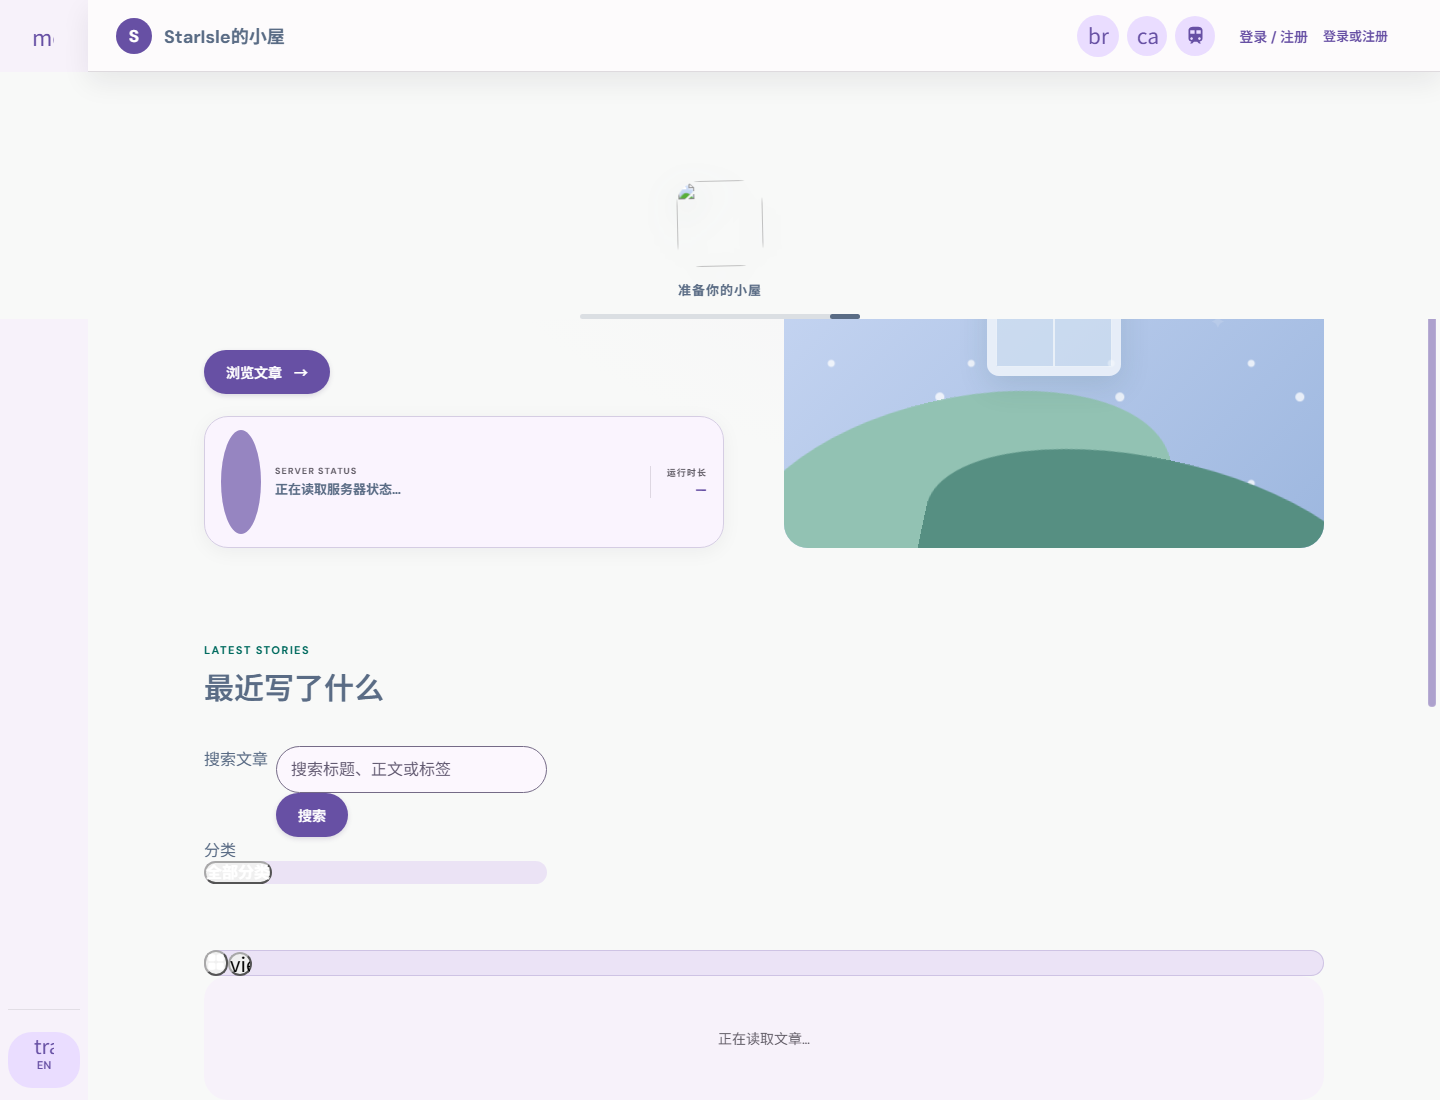
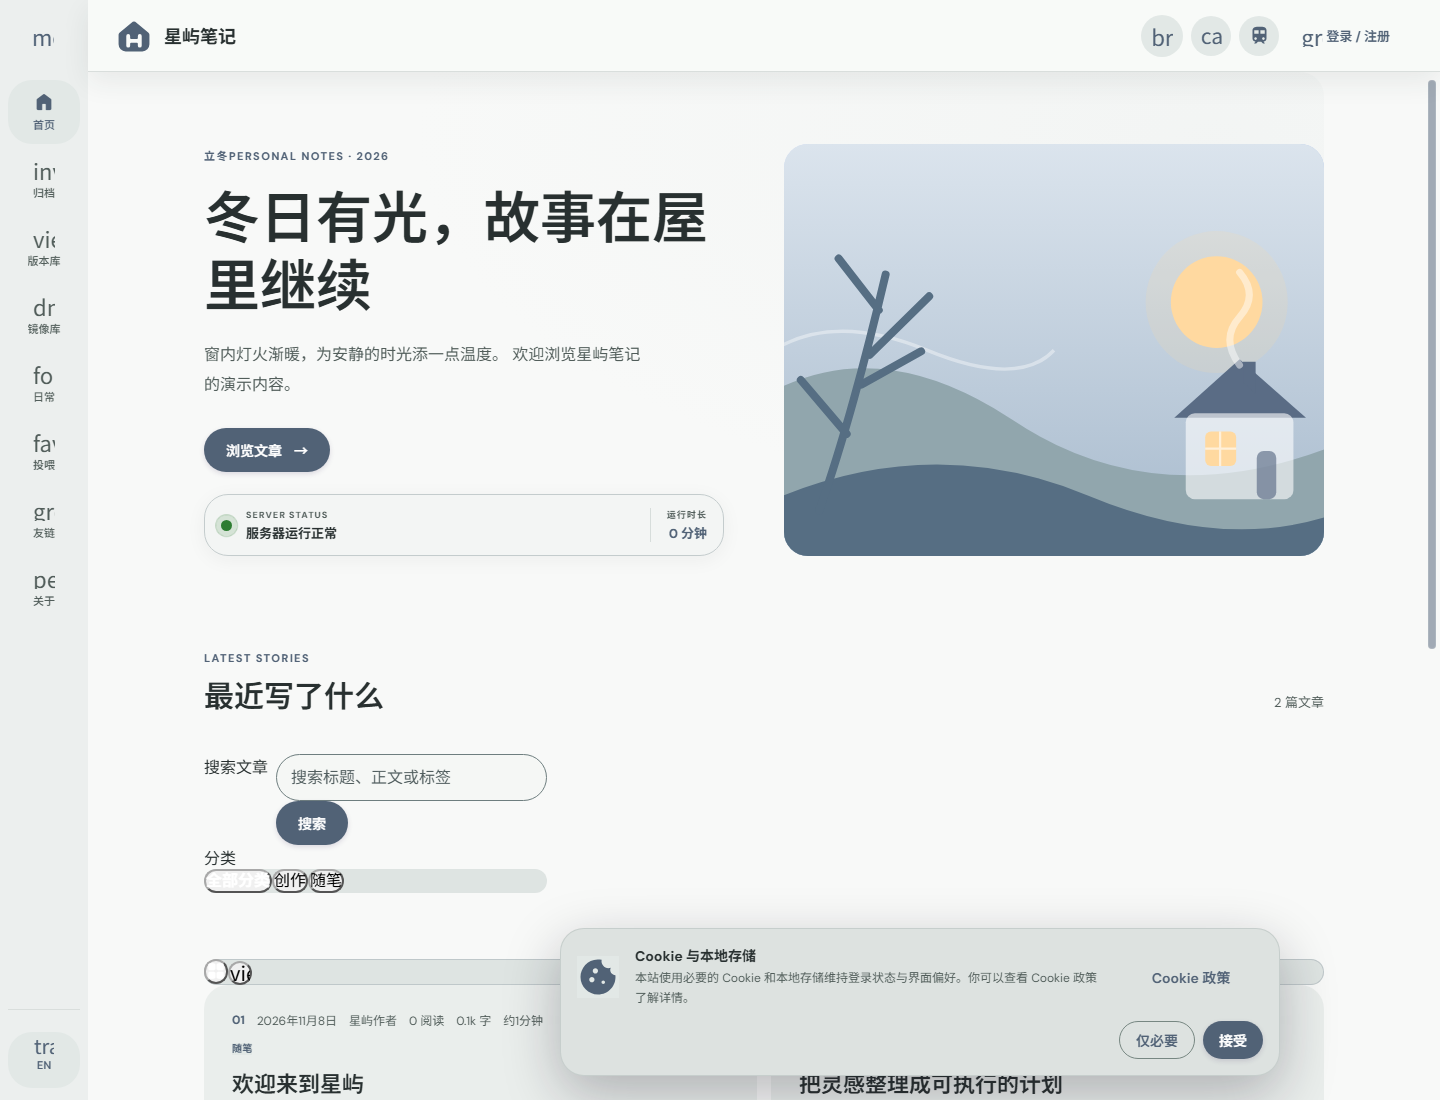
Fix template display resources and refresh desktop preview

diff --git a/app/index.html b/app/index.html
@@ -125,7 +125,7 @@
         <div class="support-art" aria-hidden="true"><svg viewBox="0 0 360 260"><defs><linearGradient id="support-cup" x1="0" y1="0" x2="1" y2="1"><stop stop-color="var(--primary)"/><stop offset="1" stop-color="var(--tertiary)"/></linearGradient></defs><rect x="18" y="18" width="324" height="224" rx="52" fill="var(--primary-container)"/><circle cx="278" cy="66" r="30" fill="var(--surface)" opacity=".72"/><path d="M76 96h166v54c0 49-34 79-83 79s-83-30-83-79Z" fill="url(#support-cup)"/><path d="M242 112h19c33 0 46 21 46 40s-16 42-46 42h-23" fill="none" stroke="var(--tertiary)" stroke-width="17" stroke-linecap="round"/><path d="M118 66c-19-18 18-25 0-43m56 43c-19-18 18-25 0-43" fill="none" stroke="var(--surface)" stroke-width="9" stroke-linecap="round" opacity=".86"/><path d="M96 208h142" stroke="var(--surface)" stroke-width="10" stroke-linecap="round" opacity=".58"/></svg></div>
       </div>
       <div class="support-grid">
-        <article class="support-method surface"><div class="support-method-head"><span class="support-brand-logo support-brand-alipay" role="img" aria-label="支付宝品牌标志"></span><div><span class="eyebrow">ALIPAY</span><h2>支付宝</h2></div></div><div class="support-qr" id="support-alipay-qr"><img id="support-alipay-image" class="hidden" alt="支付宝收款码"><div class="support-qr-empty" id="support-alipay-empty"><span class="material-symbols-rounded" aria-hidden="true">qr_code_2</span><p data-zh="管理员尚未配置支付宝收款码" data-en="Alipay payment QR has not been configured">管理员尚未配置支付宝收款码</p></div><a class="support-scan-hint hidden" id="support-alipay-hint" href="https://qr.alipay.com/fkx19643uecmszrdtiqgebb" target="_blank" rel="noopener"><span class="material-symbols-rounded" aria-hidden="true">qr_code_scanner</span><span data-zh="打开支付宝扫一扫" data-en="Open Alipay">打开支付宝扫一扫</span></a></div></article>
+        <article class="support-method surface"><div class="support-method-head"><span class="support-brand-logo support-brand-alipay" role="img" aria-label="支付宝品牌标志"></span><div><span class="eyebrow">ALIPAY</span><h2>支付宝</h2></div></div><div class="support-qr" id="support-alipay-qr"><img id="support-alipay-image" class="hidden" alt="支付宝收款码"><div class="support-qr-empty" id="support-alipay-empty"><span class="material-symbols-rounded" aria-hidden="true">qr_code_2</span><p data-zh="管理员尚未配置支付宝收款码" data-en="Alipay payment QR has not been configured">管理员尚未配置支付宝收款码</p></div><a class="support-scan-hint hidden" id="support-alipay-hint" href="#" target="_blank" rel="noopener"><span class="material-symbols-rounded" aria-hidden="true">qr_code_scanner</span><span data-zh="打开支付宝扫一扫" data-en="Open Alipay">打开支付宝扫一扫</span></a></div></article>
         <article class="support-method surface"><div class="support-method-head"><span class="support-brand-logo support-brand-wechat" role="img" aria-label="微信品牌标志"></span><div><span class="eyebrow">WECHAT PAY</span><h2>微信支付</h2></div></div><div class="support-qr" id="support-wechat-qr"><img id="support-wechat-image" class="hidden" alt="微信收款码"><div class="support-qr-empty" id="support-wechat-empty"><span class="material-symbols-rounded" aria-hidden="true">qr_code_2</span><p data-zh="管理员尚未配置微信收款码" data-en="WeChat Pay QR has not been configured">管理员尚未配置微信收款码</p></div><a class="support-scan-hint hidden" id="support-wechat-hint" href="weixin://"><span class="material-symbols-rounded" aria-hidden="true">qr_code_scanner</span><span data-zh="打开微信扫一扫" data-en="Open WeChat">打开微信扫一扫</span></a></div></article>
         <article class="support-method surface"><div class="support-method-head"><span class="support-brand-logo support-brand-paypal" role="img" aria-label="PayPal 品牌标志"></span><div><span class="eyebrow">PAYPAL</span><h2>PayPal</h2></div></div><div class="support-paypal-panel"><p data-zh="使用 PayPal 余额、银行卡或支持的本地支付方式，安全地向作者提供支持。" data-en="Support the author securely with PayPal balance, a card, or an eligible local payment method.">使用 PayPal 余额、银行卡或支持的本地支付方式，安全地向作者提供支持。</p><a class="filled-button hidden" id="support-paypal-link" href="#" target="_blank" rel="noopener" data-no-icon><span data-zh="前往 PayPal 捐款" data-en="Donate with PayPal">前往 PayPal 捐款</span><span aria-hidden="true">↗</span></a><div class="support-paypal-empty" id="support-paypal-empty"><span class="material-symbols-rounded" aria-hidden="true">link_off</span><p data-zh="管理员尚未配置 PayPal 收款链接" data-en="A PayPal donation link has not been configured">管理员尚未配置 PayPal 收款链接</p></div></div></article>
       </div>
@@ -274,10 +274,7 @@
       <span id="copyright">© 2026 StarIsle</span>
       <div class="footer-legal-meta" aria-label="许可与备案信息">
         <a class="footer-meta-link footer-cc-license" href="https://creativecommons.org/licenses/by-nc-sa/4.0/deed.zh-hans" target="_blank" rel="license noopener" title="Creative Commons BY-NC-SA 4.0" aria-label="Creative Commons BY-NC-SA 4.0 许可"><span class="footer-cc-icons" aria-hidden="true"><svg class="footer-cc-icon" viewBox="0 0 30 30" aria-hidden="true"><path d="M14.972 0c4.196 0 7.769 1.465 10.715 4.393A14.426 14.426 0 0128.9 9.228C29.633 11.04 30 12.964 30 15c0 2.054-.363 3.978-1.085 5.772a13.77 13.77 0 01-3.2 4.754 15.417 15.417 0 01-4.983 3.322A14.932 14.932 0 0114.973 30c-1.982 0-3.88-.38-5.692-1.14a15.087 15.087 0 01-4.875-3.293c-1.437-1.437-2.531-3.058-3.281-4.862A14.71 14.71 0 010 15c0-1.982.38-3.888 1.138-5.719a15.062 15.062 0 013.308-4.915C7.303 1.456 10.812 0 14.972 0zm.055 2.706c-3.429 0-6.313 1.196-8.652 3.589a12.896 12.896 0 00-2.72 4.031 11.814 11.814 0 00-.95 4.675c0 1.607.316 3.156.95 4.646a12.428 12.428 0 002.72 3.992 12.362 12.362 0 003.99 2.679c1.483.616 3.037.924 4.662.924 1.607 0 3.164-.312 4.675-.937a12.954 12.954 0 004.084-2.705c2.339-2.286 3.508-5.152 3.508-8.6 0-1.66-.304-3.231-.91-4.713a11.994 11.994 0 00-2.651-3.965c-2.412-2.41-5.314-3.616-8.706-3.616zm-.188 9.803l-2.01 1.045c-.215-.445-.477-.758-.79-.937-.312-.178-.602-.268-.87-.268-1.34 0-2.01.884-2.01 2.652 0 .803.17 1.446.509 1.928.34.482.84.724 1.5.724.876 0 1.492-.43 1.85-1.286l1.847.937a4.407 4.407 0 01-1.634 1.728c-.696.42-1.464.63-2.303.63-1.34 0-2.42-.41-3.242-1.233-.821-.82-1.232-1.964-1.232-3.428 0-1.428.416-2.562 1.246-3.401.83-.84 1.879-1.26 3.147-1.26 1.858 0 3.188.723 3.992 2.17zm8.652 0l-1.983 1.045c-.214-.445-.478-.758-.79-.937-.313-.178-.613-.268-.897-.268-1.34 0-2.01.884-2.01 2.652 0 .803.17 1.446.51 1.928.338.482.838.724 1.5.724.874 0 1.49-.43 1.847-1.286l1.875.937a4.606 4.606 0 01-1.66 1.728c-.696.42-1.455.63-2.277.63-1.357 0-2.441-.41-3.253-1.233-.814-.82-1.22-1.964-1.22-3.428 0-1.428.415-2.562 1.246-3.401.83-.84 1.879-1.26 3.147-1.26 1.857 0 3.18.723 3.965 2.17z" fill="currentColor"/></svg><svg class="footer-cc-icon" viewBox="0 0 30 30" aria-hidden="true"><path d="M14.973 0c4.213 0 7.768 1.446 10.66 4.34C28.544 7.25 30 10.803 30 15c0 4.215-1.43 7.723-4.287 10.526C22.678 28.51 19.098 30 14.973 30c-4.054 0-7.571-1.474-10.553-4.42C1.474 22.633 0 19.107 0 15S1.474 7.34 4.42 4.34C7.313 1.446 10.83 0 14.973 0zm.054 2.706c-3.41 0-6.295 1.196-8.652 3.589-2.447 2.5-3.67 5.402-3.67 8.706 0 3.321 1.214 6.196 3.642 8.624 2.429 2.429 5.322 3.642 8.679 3.642 3.339 0 6.25-1.222 8.732-3.67 2.358-2.267 3.536-5.133 3.536-8.598 0-3.41-1.197-6.311-3.589-8.705-2.392-2.392-5.285-3.588-8.678-3.588zm4.018 8.57v6.134H17.33v7.286h-4.66V17.41h-1.714v-6.134a.93.93 0 01.28-.683.933.933 0 01.684-.281h6.161c.25 0 .474.093.67.28a.912.912 0 01.294.684zM12.91 7.42c0-1.41.696-2.116 2.09-2.116s2.09.705 2.09 2.116c0 1.393-.697 2.09-2.09 2.09-1.393 0-2.09-.697-2.09-2.09z" fill="currentColor"/></svg><svg class="footer-cc-icon" viewBox="0 0 30 30" aria-hidden="true"><path d="M14.973 0c4.214 0 7.768 1.446 10.66 4.339C28.544 7.232 30 10.786 30 15c0 4.215-1.429 7.723-4.287 10.527C22.678 28.51 19.097 30 14.973 30c-4.072 0-7.59-1.482-10.553-4.446C1.474 22.607 0 19.09 0 15c0-4.107 1.474-7.66 4.42-10.66C7.313 1.446 10.83 0 14.973 0zM3.375 10.956c-.446 1.232-.67 2.58-.67 4.045 0 3.321 1.214 6.196 3.642 8.624 2.447 2.412 5.34 3.617 8.679 3.617 3.375 0 6.285-1.223 8.733-3.67.875-.839 1.561-1.714 2.061-2.626l-5.651-2.518a3.866 3.866 0 01-1.433 2.317c-.76.598-1.657.943-2.693 1.031v2.304h-1.74v-2.304c-1.661-.017-3.18-.615-4.554-1.794l2.063-2.089c.981.91 2.098 1.366 3.348 1.366.517 0 .96-.116 1.326-.349.366-.231.55-.615.55-1.151 0-.376-.135-.68-.402-.911l-1.447-.617-1.767-.804-2.384-1.044-7.661-3.427zm11.652-8.278c-3.41 0-6.295 1.206-8.652 3.616-.59.59-1.143 1.26-1.66 2.01l5.732 2.571a3.513 3.513 0 011.42-1.888c.695-.473 1.508-.737 2.437-.79V5.893h1.741v2.304c1.376.071 2.625.535 3.75 1.392L17.84 11.6c-.84-.59-1.697-.884-2.572-.884-.464 0-.88.09-1.245.267-.366.179-.55.483-.55.911 0 .125.045.25.134.375l1.902.858 1.313.59 2.41 1.07 7.687 3.429c.25-1.054.375-2.125.375-3.214 0-3.447-1.196-6.349-3.588-8.707-2.375-2.41-5.27-3.616-8.68-3.616z" fill="currentColor"/></svg><svg class="footer-cc-icon" viewBox="0 0 30 30" aria-hidden="true"><path d="M14.973 0c4.196 0 7.75 1.455 10.66 4.366C28.544 7.26 30 10.804 30 15c0 4.197-1.43 7.714-4.287 10.553C22.696 28.518 19.115 30 14.973 30c-4.054 0-7.571-1.473-10.553-4.42C1.474 22.634 0 19.108 0 15c0-4.088 1.474-7.633 4.42-10.633C7.33 1.455 10.848 0 14.973 0zm.054 2.706c-3.41 0-6.295 1.205-8.652 3.616-2.447 2.483-3.67 5.375-3.67 8.678 0 3.34 1.214 6.214 3.642 8.625 2.429 2.43 5.322 3.643 8.679 3.643 3.339 0 6.25-1.223 8.732-3.67 2.358-2.285 3.536-5.151 3.536-8.598 0-3.428-1.197-6.321-3.589-8.678-2.375-2.412-5.268-3.616-8.678-3.616zM8.33 12.884c.286-1.84 1.026-3.264 2.223-4.273 1.196-1.008 2.651-1.513 4.366-1.513 2.356 0 4.232.76 5.625 2.277 1.393 1.517 2.09 3.464 2.09 5.839 0 2.304-.724 4.219-2.17 5.745-1.447 1.526-3.321 2.29-5.626 2.29-1.696 0-3.16-.508-4.392-1.527-1.233-1.018-1.973-2.464-2.224-4.339H12c.09 1.822 1.187 2.733 3.295 2.733 1.053 0 1.902-.456 2.544-1.366.644-.91.965-2.126.965-3.643 0-1.59-.294-2.799-.883-3.63-.59-.83-1.437-1.245-2.545-1.245-2.001 0-3.126.884-3.375 2.651h1.098l-2.973 2.973-2.973-2.973H8.33z" fill="currentColor"/></svg></span></a>
-        <a class="footer-meta-link footer-registration-link" href="https://icp.gov.moe/?keyword=00000000" target="_blank" rel="noopener" aria-label="萌国 ICP 备案 00000000 号"><img class="footer-registration-icon" src="/moe-icp-icon.svg" width="16" height="16" alt=""><span>萌ICP备00000000号</span></a>
-        
-        <span class="footer-registration-pending" id="miit-icp-slot" aria-label="工信部 ICP 备案位置，待审批" data-zh="工信部 ICP 备案 · 待审批" data-en="MIIT ICP filing · Pending">工信部 ICP 备案 · 待审批</span>
-        <span class="footer-registration-pending" id="public-security-slot" aria-label="公安联网备案位置，待审批" data-zh="公安联网备案 · 待审批" data-en="Public security filing · Pending">公安联网备案 · 待审批</span>
+        <span class="footer-registration-pending" id="miit-icp-slot" aria-label="Demo template information" data-zh="&#28436;&#31034;&#27169;&#26495; ? &#21487;&#33258;&#23450;&#20041;&#22791;&#26696;&#20449;&#24687;" data-en="Demo template ? filing info is configurable">&#28436;&#31034;&#27169;&#26495; ? &#21487;&#33258;&#23450;&#20041;&#22791;&#26696;&#20449;&#24687;</span>
         <span id="footer-note">基于独立内容站点 · Material 3</span>
       </div>
       <div class="footer-policy-links"><a href="/terms" data-zh="条款" data-en="Terms">条款</a><a href="/privacy" data-zh="隐私" data-en="Privacy">隐私</a><a href="/cookies" data-zh="Cookie" data-en="Cookies">Cookie</a><a href="/copyright" data-zh="版权" data-en="Copyright">版权</a><a href="/disclaimer" data-zh="免责" data-en="Disclaimer">免责</a></div>

diff --git a/app/app.js b/app/app.js
@@ -292,6 +292,7 @@ function renderSupportCard(imageSelector, emptySelector, hintSelector, value) {
   empty.classList.toggle('hidden', Boolean(safeUrl));
   hint.classList.toggle('hidden', !safeUrl);
   if (safeUrl) {
+    hint.href = safeUrl;
     image.src = `${safeUrl}${safeUrl.includes('?') ? '&' : '?'}asset=no-recipient-20261104`;
     image.onerror = () => {
       image.classList.add('hidden');
@@ -465,11 +466,6 @@ function renderSite() {
   avatar.textContent = (text(p.name, p.name_en) || 'S').slice(0,1).toUpperCase();
   avatarImage.onerror = () => { avatarImage.classList.add('hidden'); avatar.classList.remove('hidden'); };
   if (p.avatar_url) { avatarImage.src = p.avatar_url; avatarImage.classList.remove('hidden'); avatar.classList.add('hidden'); } else { avatar.classList.remove('hidden'); avatarImage.classList.add('hidden'); avatarImage.removeAttribute('src'); }
-  const aboutCharacterFallback = $('#about-character-fallback');
-  if (aboutCharacterFallback) {
-    if (p.avatar_url) aboutCharacterFallback.src = p.avatar_url;
-    else aboutCharacterFallback.removeAttribute('src');
-  }
   $('#copyright').textContent = p.copyright || '© 2026 StarIsle'; $('#footer-note').textContent = text(p.footer_note, p.footer_note_en);
   renderSupportPage();
   renderLanguageUI();
@@ -3151,22 +3147,12 @@ document.querySelectorAll('#user-login-form input').forEach(field => field.addEv
     animationFrame = requestAnimationFrame(play);
   }
 
-  const sheet = new Image();
-  sheet.decoding = 'async';
-  sheet.onload = () => {
-    sheetReady = true;
-    player.classList.add('sheet-ready');
-    character.classList.add('is-ready');
-    setFrame(0);
-    syncPlayback();
-  };
-  sheet.onerror = () => {
-    sheetReady = false;
-    player.classList.remove('sheet-ready');
-    character.classList.remove('is-ready');
-  };
-  sheet.src = '/about-avatar-frames.webp';
+  // The public template uses a lightweight brand mark instead of private avatar artwork.
+  sheetReady = true;
+  player.classList.add('sheet-ready');
+  character.classList.add('is-ready');
   setFrame(0);
+  syncPlayback();
 
   function activeDialogues() {
     return configuredDialogues();

diff --git a/app/about-material.css b/app/about-material.css
@@ -219,10 +219,10 @@
 }
 
 #about-view .about-character-frame-player {
-  background-image: url('/about-avatar-frames.webp');
+  background-image: url('/brand.svg');
   background-repeat: no-repeat;
-  background-size: 800% 800%;
-  background-position: 0 0;
+  background-size: 100% auto;
+  background-position: center;
   opacity: 0;
 }
 

diff --git a/app/blog.py b/app/blog.py
@@ -1186,7 +1186,7 @@ def server_runtime_status():
 
 
 class BlogHandler(BaseHTTPRequestHandler):
-    server_version = "StarIsleBlog/3.2"
+    server_version = "MeterialExtra/0.1.0"
     def log_message(self, fmt, *args): print("[%s] %s" % (self.log_date_time_string(), fmt % args))
     @property
     def admin_port(self): return self.server.server_port == ADMIN_PORT
@@ -1549,7 +1549,7 @@ class BlogHandler(BaseHTTPRequestHandler):
             page = "article" if parsed.path.startswith("/post/") else clean(parsed.path.strip("/"), "home") or "home"
             return self.send_index(page) if not self.admin_port else self.send_error(404)
         if parsed.path == "/admin": return self.send_file("admin.html") if self.admin_port else self.send_error(404)
-        if parsed.path in ("/style.css", "/friends.css", "/friends.json", "/theme-complete.css", "/solar.css", "/libraries.css", "/article-material.css", "/about-material.css", "/about-avatar-frames.webp", "/solar.js", "/icons.js", "/mdui-icon-train.js", "/material-symbols-rounded-outlined.woff2", "/material-symbols-rounded-filled.woff2", "/material-select.js", "/app.js", "/admin.js", "/admin-material.css", "/brand.svg", "/brand.svg", "/moe-icp-icon.svg", "/brand-github.svg", "/brand-email.svg", "/brand-bilibili.svg", "/brand-douyin.svg", "/brand-x.svg", "/brand-weibo.svg", "/brand-qq.svg"): return self.send_file(parsed.path[1:]) if (parsed.path not in ("/admin.js",) or self.admin_port) else self.send_error(404)
+        if parsed.path in ("/style.css", "/friends.css", "/friends.json", "/theme-complete.css", "/solar.css", "/libraries.css", "/article-material.css", "/about-material.css", "/solar.js", "/icons.js", "/mdui-icon-train.js", "/material-symbols-rounded-outlined.woff2", "/material-symbols-rounded-filled.woff2", "/material-select.js", "/app.js", "/admin.js", "/admin-material.css", "/brand.svg", "/brand-github.svg", "/brand-email.svg", "/brand-bilibili.svg", "/brand-douyin.svg", "/brand-x.svg", "/brand-weibo.svg", "/brand-qq.svg"): return self.send_file(parsed.path[1:]) if (parsed.path not in ("/admin.js",) or self.admin_port) else self.send_error(404)
         if parsed.path.startswith("/uploads/"): return self.send_upload(parsed.path.rsplit("/", 1)[-1])
         if parsed.path == "/health": return self.send_json({"status": "ok", "port": self.server.server_port})
         if parsed.path == "/api/minecraft/catalog":
